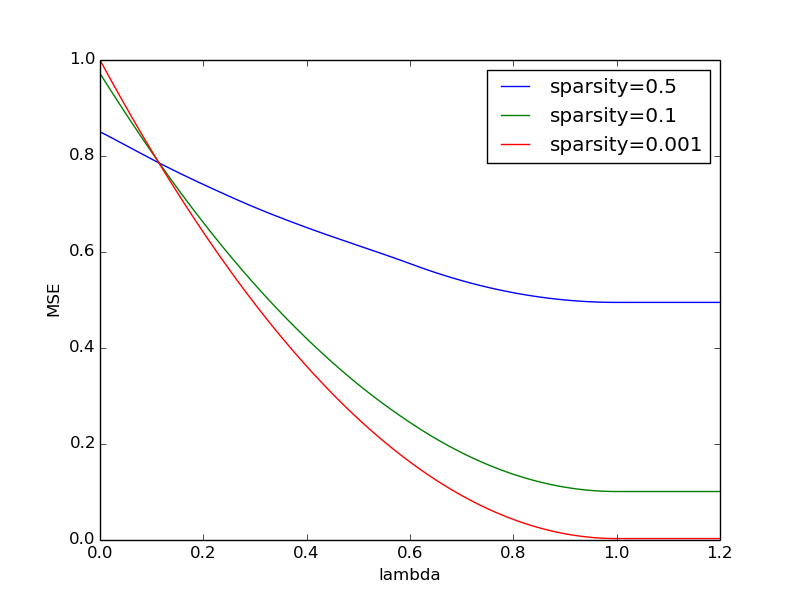
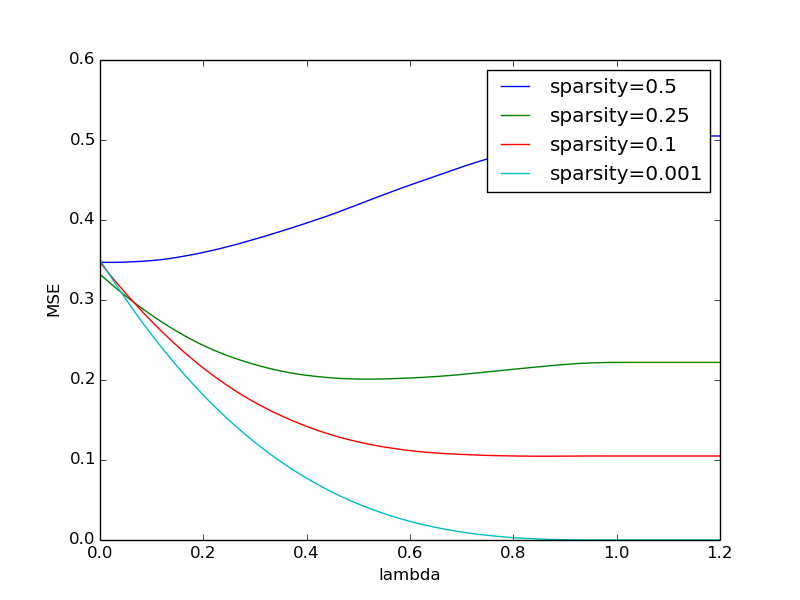
fixed y

diff --git a/week5/penalized.py b/week5/penalized.py
@@ -24,11 +24,12 @@ def calc_s(y, lamb):
 #Define vector length, and sigma vector
 n=1000
 sigma = np.random.random(n)
+y = np.random.random(n)
 plt.figure()
 
-for z in [0.5, 0.1, 0.001]:
+for z in [0.5, 0.25, 0.1, 0.001]:
     theta = np.random.choice([0, 1], size=(n), p=[1-z, z])
-    y = np.exp(-np.square(theta)/(2*np.square(sigma)))
+    norm = np.exp(-np.square(y-theta)/(2*np.square(sigma)))
     mse=[]
     vec_lambda=np.linspace(0,1.2,100)
     for lamb in vec_lambda:
